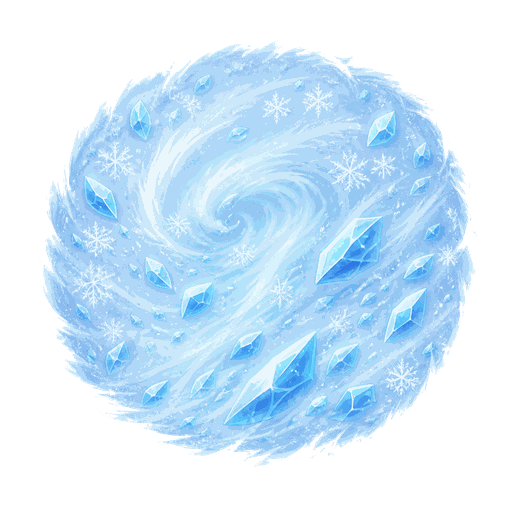
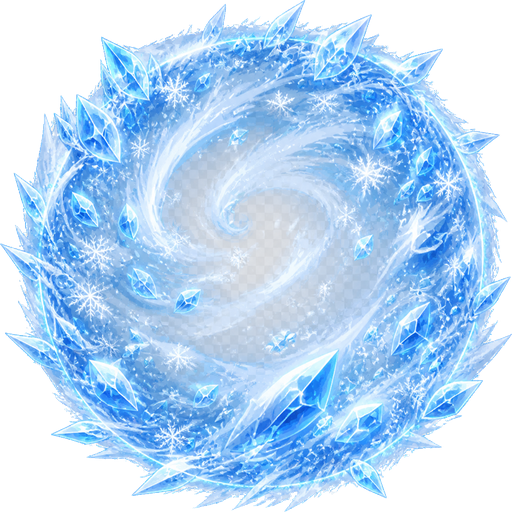
v549: 눈보라·번개 존 그래픽 강화 — 기존 스프라이트 -i 파생 고디테일 재생성(분기 번개 3-4발·폭풍 구름 / 결정 빙살·회오리 눈송이), 키잉·투명 검증 후 교체, 로더 캐시버스트 ?v=549 — RUN_GATES:ALL_OK

diff --git a/royal-arena/index.html b/royal-arena/index.html
@@ -1205,7 +1205,7 @@ html body .info-box #btn-info-close{
   z-index:2 !important}
 html body .info-box #btn-info-close,html body .info-box #btn-info-close *{color:#2b1c05 !important;text-shadow:none !important}
 </style><style id="ui-v507">/* v507: 타이틀 zoom 핏터 상한 — 도움말 닫기 후 메인이 0.8까지 눌리는 급축소 차단(최소 0.93·한 번에 최대 4% 보정) */
-</style><div id="verchip" style="position:fixed;left:6px;bottom:2px;z-index:99990;background:rgba(0,0,0,.55);color:#ffd75e;font:700 10px monospace;padding:2px 6px;opacity:.62;border-radius:8px;pointer-events:none">v548</div><div id="app">
+</style><div id="verchip" style="position:fixed;left:6px;bottom:2px;z-index:99990;background:rgba(0,0,0,.55);color:#ffd75e;font:700 10px monospace;padding:2px 6px;opacity:.62;border-radius:8px;pointer-events:none">v549</div><div id="app">
 
   <!-- ===== 타이틀 ===== -->
   <section id="screen-title">
@@ -1589,7 +1589,7 @@ b.style.setProperty('background-size','auto,100% 100%','important');b.style.setP
 html body #rpane-score{overflow-y:auto !important;max-height:46vh !important;-webkit-overflow-scrolling:touch !important}
 html body .rrow-mirror b{font-size:11px !important;line-height:1.5 !important;white-space:pre-line !important;word-break:keep-all !important;overflow-wrap:anywhere !important;text-align:right !important;max-width:200px !important;font-weight:600 !important}
 </style>
-<script src="js/g1a-art-assets.js?v=548"></script><script src="js/g1b-art-assets.js?v=548"></script><script src="js/g1c-art-assets.js?v=548"></script>
+<script src="js/g1a-art-assets.js?v=549"></script><script src="js/g1b-art-assets.js?v=549"></script><script src="js/g1c-art-assets.js?v=549"></script>
 
 
 
@@ -1601,7 +1601,7 @@ html body .rrow-mirror b{font-size:11px !important;line-height:1.5 !important;wh
 
 
 
-<script src="js/g2-sprite-assets.js?v=548"></script>
+<script src="js/g2-sprite-assets.js?v=549"></script>
 <script id="ui-v510-js">/* v510: 지도·난이도 해금 단일 진실원 — 난이도별 맵 사다리 분리(단계별 해금). 악몽 해금=노멀 전맵 토벌(ra_map_clear_d0>=마지막 idx), 지옥=악몽 전맵 토벌(ra_map_clear_d1>=마지막 idx). 맵 해금은 현재 난이도 사다리에서 순차(clear_d+1). 표시순서≠사다리순서라 이름 매칭으로 사다리 idx 산출(v431 표시-idx 기록 버그 근본 수복). 기존 ra_map_clear_v1은 d0 마이그레이션 원천. */
 (function(){
  function MK(){ return {
@@ -1686,7 +1686,7 @@ setInterval(function(){
 
 
 
-<script src="js/g3-frame-assets.js?v=548"></script>
+<script src="js/g3-frame-assets.js?v=549"></script>
 
 
 
@@ -1697,7 +1697,7 @@ setInterval(function(){
 
 
 
-<script src="js/g4-ux-data.js?v=548"></script>
+<script src="js/g4-ux-data.js?v=549"></script>
 
 
 
@@ -1708,7 +1708,7 @@ setInterval(function(){
 
 
 
-<script src="js/g5-core.js?v=548"></script>
+<script src="js/g5-core.js?v=549"></script>
 
 
 
@@ -1719,19 +1719,7 @@ setInterval(function(){
 
 
 
-<script src="js/g6-battle.js?v=548"></script>
-
-
-
-
-
-
-
-
-
-
-
-<script src="js/g7-ui-systems.js?v=548"></script>
+<script src="js/g6-battle.js?v=549"></script>
 
 
 
@@ -1743,7 +1731,19 @@ setInterval(function(){
 
 
 
-<script src="js/g8-boot.js?v=548"></script><script src="js/g9-wide.js?v=548"></script><script src="js/g10-techtree.js?v=548"></script><script src="js/g11-camera.js?v=548"></script><script src="js/g12-camera-ui.js?v=548"></script>
+<script src="js/g7-ui-systems.js?v=549"></script>
+
+
+
+
+
+
+
+
+
+
+
+<script src="js/g8-boot.js?v=549"></script><script src="js/g9-wide.js?v=549"></script><script src="js/g10-techtree.js?v=549"></script><script src="js/g11-camera.js?v=549"></script><script src="js/g12-camera-ui.js?v=549"></script>
 
 
 

diff --git a/royal-arena/js/g1c-art-assets.js b/royal-arena/js/g1c-art-assets.js
@@ -1249,5 +1249,5 @@ function __raAddRandomBtn(){
   setInterval(function(){ try{ __raAddRandomBtn(); }catch(e){ } },300);   /* v193: 재시도 보장 */
 })();
 /* v545: 신규 존·보스 연출 스프라이트 병합 로더 — 기존 __FXIMG 로더와 공존(키 병합) */
-try{ if(!window.__FXIMG) window.__FXIMG={}; ['warp','storm','burn','bossgate','doomaura','rot','plasmazone','shock'].forEach   /* v548: 존 스프라이트 전종 커버 */(function(k545){ if(!window.__FXIMG[k545]){ var im545=new Image(); im545.__valid=true; im545.onerror=function(){ im545.__valid=false; }; im545.src='assets/ra_fx_'+k545+'.png'; window.__FXIMG[k545]=im545; } }); }catch(__e545){}
+try{ if(!window.__FXIMG) window.__FXIMG={}; ['warp','storm','burn','bossgate','doomaura','rot','plasmazone','shock'].forEach   /* v548: 존 스프라이트 전종 커버 */(function(k545){ if(!window.__FXIMG[k545]){ var im545=new Image(); im545.__valid=true; im545.onerror=function(){ im545.__valid=false; }; im545.src='assets/ra_fx_'+k545+'.png?v=549';   /* v549: 강화본 캐시버스트 */ window.__FXIMG[k545]=im545; } }); }catch(__e545){}
 try{ if(window.__FXIMG&&!window.__FXIMG.__v547){ window.__FXIMG.__v547=1; } }catch(e){}

diff --git a/royal-arena/sw.js b/royal-arena/sw.js
@@ -1,4 +1,4 @@
-const CACHE = 'royal-arena-v548';
+const CACHE = 'royal-arena-v549';
 /* v449: 점진 캐싱 수복 — 구조 결함(install addAll 전량 실패) 제거.
    구버전: CORE 전량(330종·81MB) addAll → 자산 1개 실패 시 install reject → 기기가 구버전에 무기한 갇힘(v446 지연·미갱신 사고의 근원).
    신버전: ①install은 셸(html·js·아이콘, ~2MB)만 allSettled 선캐시 ②전체 assets는 activate 이후 백그라운드 프리페치(allSettled — 절대 reject 안 함)
